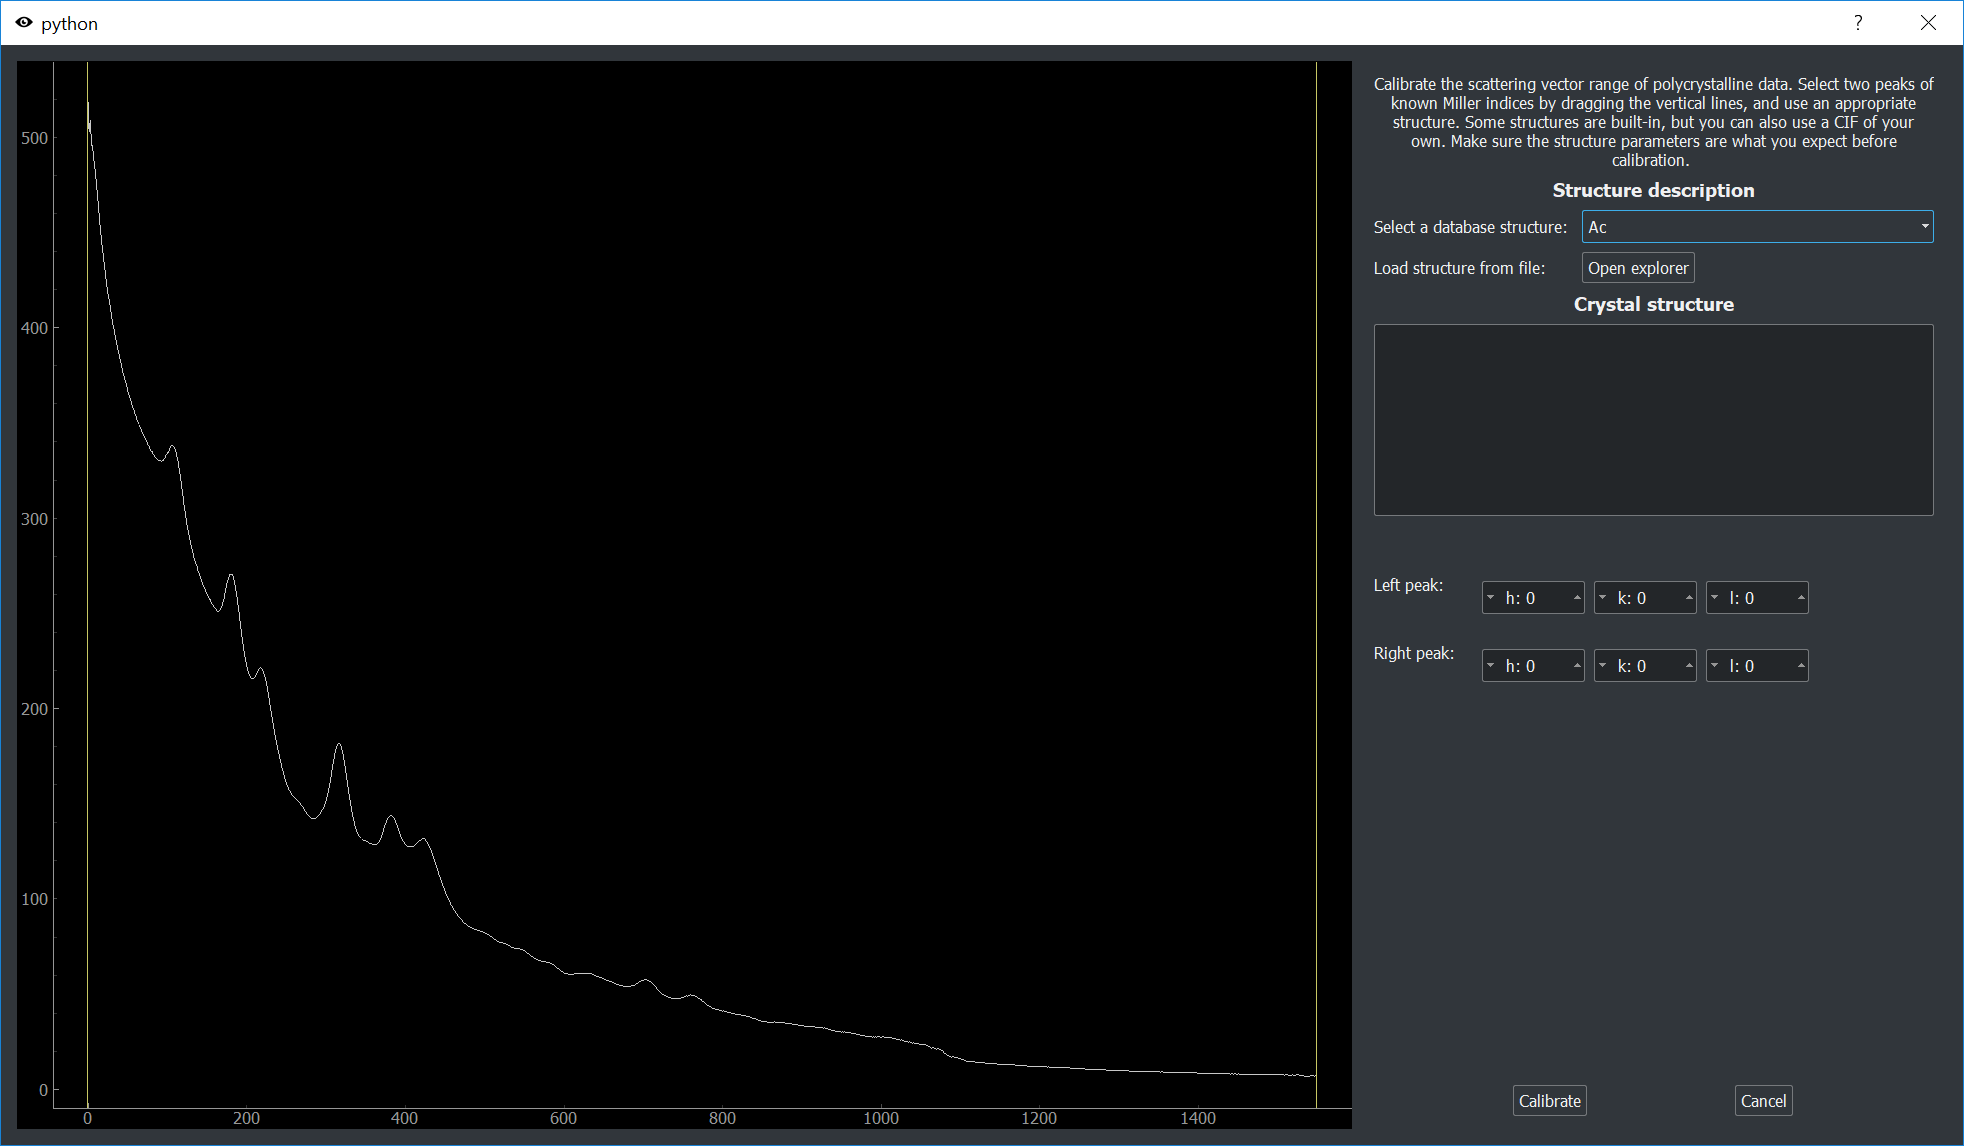
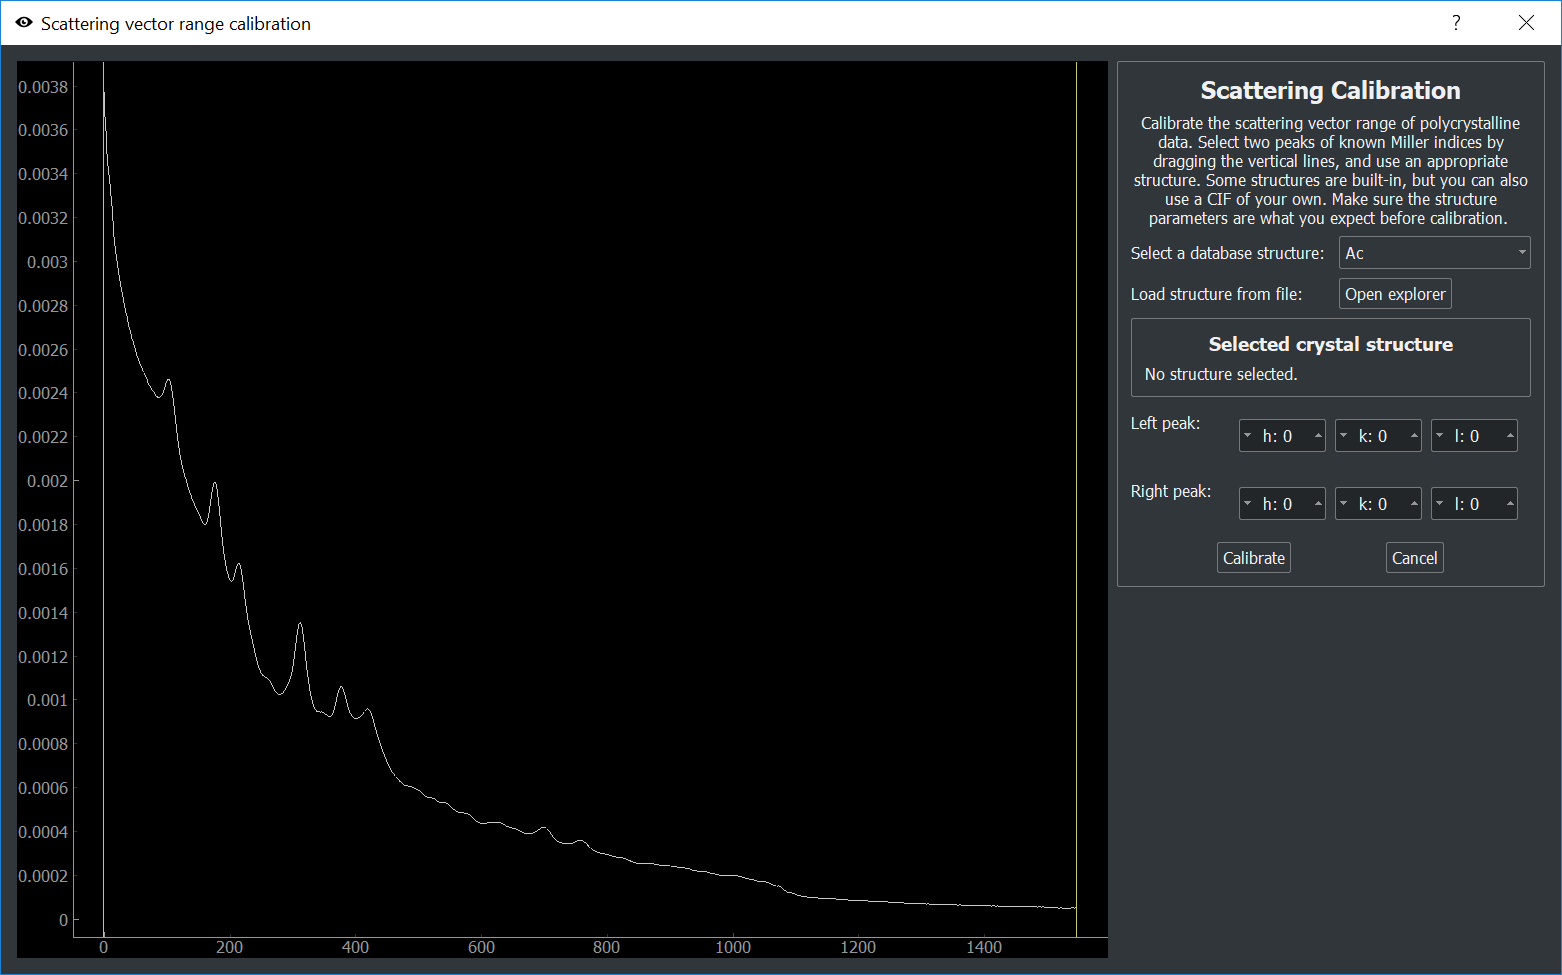
DOC: updated pictures for 5.0.0 release
Former-commit-id: c17193223c18b8024f07e3ae5c5b7ddb0cd902b9 [formerly c17193223c18b8024f07e3ae5c5b7ddb0cd902b9 [formerly ff0f2fd90c1ec09d31bcc4437fd1d2752640ea11]]
Former-commit-id: db1e0f2aa28394a75dfea51ef4d2cb871f056302
Former-commit-id: 93357eff74f92f1e9113c7f477b45cd8534498df
Former-commit-id: ce5cfacb29a38ad189cd732b9e7d73ec32443e3c

diff --git a/iris/__init__.py b/iris/__init__.py
@@ -2,7 +2,7 @@
 __author__  = 'Laurent P. René de Cotret'
 __email__   = 'laurent.renedecotret@mail.mcgill.ca'
 __license__ = 'MIT'
-__version__ = '5.0rc4'
+__version__ = '5.0.0'
 
 # Versioning should be compliant with PyPI guide 
 # https://packaging.python.org/tutorials/distributing-packages/#choosing-a-versioning-scheme

diff --git a/docs/source/workflow.rst b/docs/source/workflow.rst
@@ -19,16 +19,24 @@ The first screen is shown below.
 
 Loading raw data
 ----------------
-The file menu can be used to load raw data. Depending on the installed plugins, options will be available.
+The file menu can be used to load raw data. Depending on the installed plugins, options will be available. To install 
+a new plug-in, use the following option:
+
+.. image:: images/load_plugin_option.png
+    :scale: 50 %
+    :align: center
+
+You'll be able to select a plug-in file which will be copied to the plug-in directory. The program will then restart.
+Once a plug-in is installed, a new raw data format will appear.
 
 .. image:: images/load_raw.png
     :scale: 50 %
     :align: center
 
+Here is an example of loaded raw data: Raw data controls are available to the right.
+
 .. image:: images/raw_data.png
     :align: center
-
-Raw data controls are available to the right.
 
 Data reduction
 --------------
@@ -111,7 +119,7 @@ without any problems.
 Polycrystalline scattering vector calibration
 ---------------------------------------------
 
-On the above images, the scattering vector range is meaningless. To calibrate the scattering vector range
+On the above images, the scattering vector range might not be right. To calibrate the scattering vector range
 based on a known structure, select the 'Calibrate scattering vector' option from the 'Dataset' menu.
 
 .. image:: images/calibrate_option.png
@@ -132,9 +140,4 @@ scattering vector range.
 
 .. image:: images/calibration_dialog_2.png
     :scale: 75 %
-    :align: center
-
-The resulting pattern makes more sense.
-
-.. image:: images/poly_view_5.png
     :align: center
